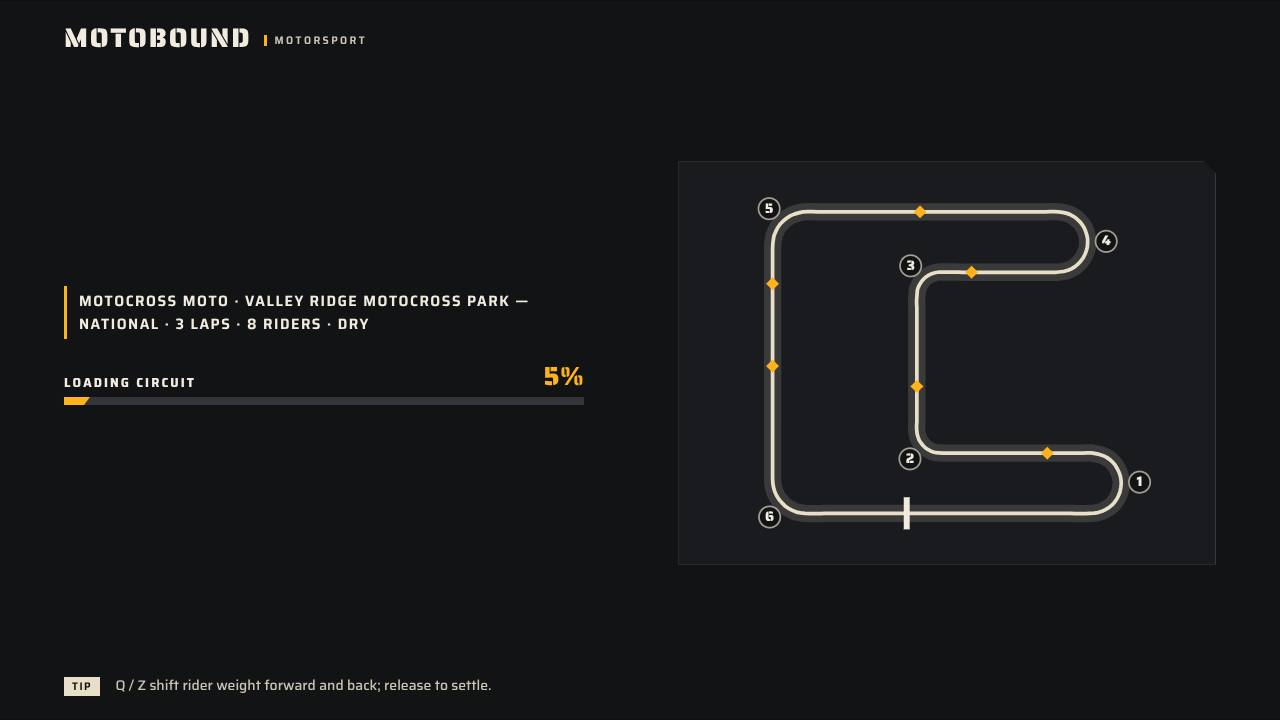
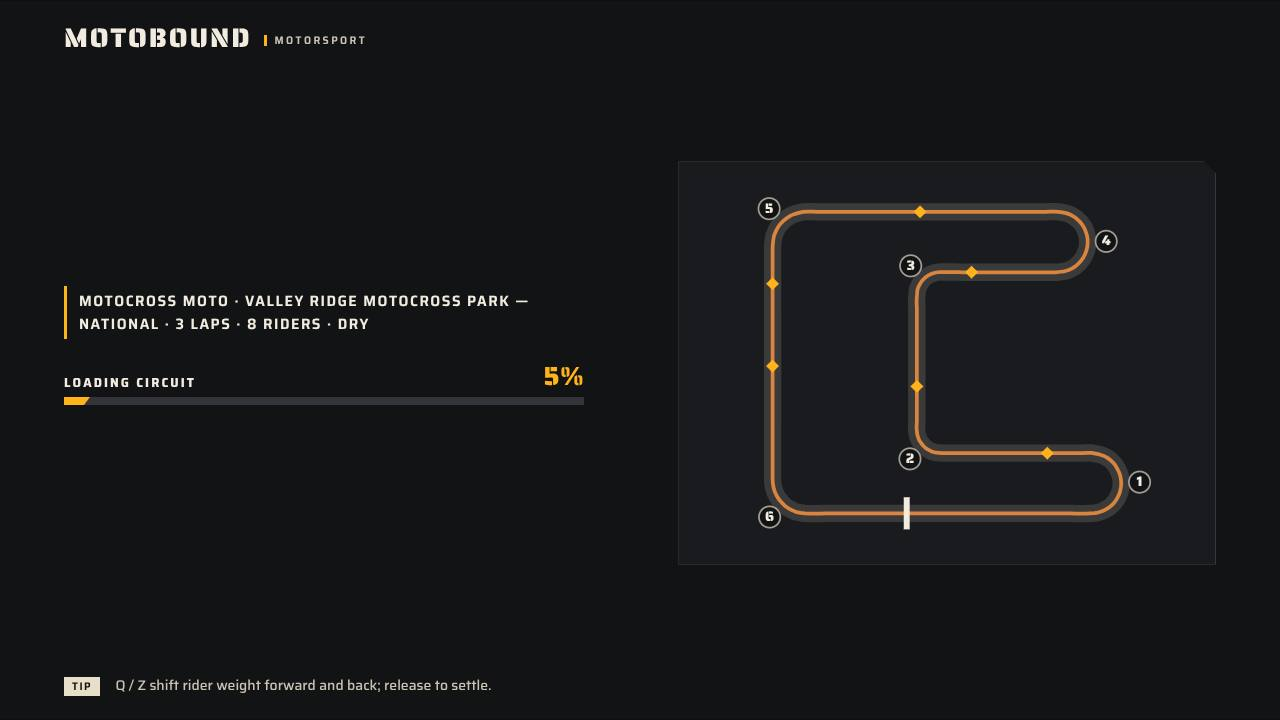
Wave 2 report, art direction notes, track-art tint fix, board scroll fix, final screens
Claude-Session: https://claude.ai/code/session_01MxucWy5KGnQJ1DDzh3nq1W

diff --git a/src/ui/front-end.css b/src/ui/front-end.css
@@ -501,12 +501,14 @@
 #menu[data-board='festival'] .lb-map {
   --tint: var(--mb-plate-fest);
 }
+/* --tint comes from the container (the venue sheet, the loading board, a Wildcard row), so the
+   line takes the discipline's plate colour; this sheet used to re-declare it on .ta itself,
+   which overrode every container. */
 .ta {
   display: block;
   width: 100%;
   height: 100%;
   overflow: visible;
-  --tint: var(--mb-plate-circuit);
 }
 .ta-road {
   fill: none;
@@ -517,7 +519,7 @@
 }
 .ta-line {
   fill: none;
-  stroke: var(--tint);
+  stroke: var(--tint, var(--mb-plate-circuit));
   stroke-width: 1.5;
   stroke-linejoin: round;
 }
@@ -566,7 +568,7 @@
 }
 .ta-rd {
   fill: none;
-  stroke: var(--tint);
+  stroke: var(--tint, var(--mb-plate-circuit));
   stroke-linejoin: round;
   stroke-linecap: round;
   opacity: 0.85;

diff --git a/docs/studio/reports/ux2.md b/docs/studio/reports/ux2.md
@@ -1,0 +1,217 @@
+# UX/UI Director report, wave 2: the front end a reviewer screenshots
+
+Branch `studio/ux-wave2` (from `main` @ 7f2d2ed). Design system: [ART_DIRECTION.md](../ART_DIRECTION.md)
+(updated: sections 8b, 9, 11, 11b, 13). Wave 1 report: [ux.md](ux.md). Screens:
+`docs/studio/reports/ux2-screens/` (JPEG, 1280x720, each at most 190 KB). Everything below comes from
+commands run in this worktree; anything not run is labelled. The host had 4 CPUs at load 9-14 shared with
+other agents and one browser ran at a time on SwiftShader, so every browser timing is slow and none is a
+performance claim.
+
+## 1. Result at a glance
+
+| # | Task | Status | Evidence |
+| --- | --- | --- | --- |
+| 1 | DIRT SERIES chips only on the DIRT plate | Done | e2e/60 test written first and seen failing on the old code, then passing; real-game before/after screens of the Circuit and Festival plates |
+| 2 | Wildcard Series as the front door | Done, with two caveats (section 6) | Board of 19 events, door on the paddock board, start from the event, medal and pay on the results screen, persisted by the career save; unit tests drive the real simulation into the real career controller; 3 events re-run headlessly after a weather change |
+| 3 | LIGHT dial | Done | Dial on the board, stored per profile, applied at session load; unit and DOM tests; effect seen in the real race (different sky and shadows), not measured |
+| 4 | HUD identity | Done for tokens, wordmark, numerals, shapes; layout untouched | unit test forbids geometry in the layer; e2e 28, 49, 52 results in section 3 |
+| 5 | CONTINUE | Done (the career hub as front door is not) | DOM test: one input relaunches a form entry or a Wildcard event; stored in the save store |
+| 6 | Loading screen and menu sounds | Done | loading board with the real venue line art and tips per discipline; six WebAudio sounds wired to `motobound:cue` (autoplay, volume and mute tested in a browser with a counting AudioContext; not listened to) |
+
+## 2. What was built
+
+### 2.1 The bug (DIRT SERIES chips on every plate)
+
+`motocross-presentation.ts` builds the strip, and `launch-board.ts` moved it under the plates for all
+disciplines. `sync()` now hides it unless the DIRT plate is active (`mx-entry[hidden]`). The two e2e
+specs that clicked OUTDOOR MX from the default menu (44 and 45) now pick the DIRT plate first: that is
+the contract change, not a weakened assertion (the chips are `display: none` under the other plates).
+Reproduction: `before-menu-circuit` and `before-menu-festival` show the chips under CIRCUIT and FESTIVAL.
+
+### 2.2 Wildcard Series
+
+* **Door** (`launch-board.ts`, `wildcard-board.css`): a ticket stub on the strip under every plate: the
+  count of events in stencil, a perforation, WILDCARD SERIES and "N OF 19 MEDALLED" from the career save.
+  It takes the row the dirt chips used to take on the other plates, so the 1280x720 entry still fits
+  without scrolling (`e2e/60` "board fits 1280x720" passes).
+* **Board** (`wildcard-board.ts`, opened by `career:wildcard`): master list and programme page, not a grid
+  of identical cards. Each row: number, the venue's real line art (`track-art.ts`), title, machine on
+  venue, weather and light glyphs and the player's best medal (a dashed ring when none). The page of the
+  chosen event: the venue map with corner numbers, the machine's plate, venue, lap length and turns,
+  field, sky, rules, the one-line pitch, the medal ladder (the player's rungs say EARNED), the best
+  result and the most it can pay (computed with the career's own `racePayout`, 24,000 for a six-car win).
+  The rows are a roving radio group: arrow keys, Home and End select; focus selects, so a controller
+  walking the list reads each event (`menu-gamepad.ts` got an up/down rule for it: the roving rows have
+  `tabindex="-1"`, which its spatial search skips).
+* **Start** is `career:wildcardGo:<id>`: `wildcardSession` over the player's setup, the machine loaned,
+  `CareerSession.light` carrying the event's own lighting.
+* **Results** (`resultsLead`, `wildcardResultHtml`): the medal earned or why none (not classified, the AI
+  drove, outside the ladder), what it asked for, NEW BEST or MATCHED YOUR BEST, and the pay; the career
+  payment table follows and a WILDCARD BOARD button returns. Pay, reputation and the record are
+  `settleRace` over `wildcardCareerEvent`, saved in `save.results['wildcard.<id>']`: no schema change.
+* **A gap I found and fixed:** a Wildcard time attack (event 18) is a time trial, and a time trial never
+  reaches the chequered flag (the session stays in phase 2 after its laps: probed with the production
+  simulation), so `main.finish` was never called and the event could never be settled. The controller now
+  ends it when the laps are done (`CareerController.attackFinished`, called from `main.observe`).
+* **New weather states:** fog on THE DESCENT IN THE CLOUD (the title says cloud), a thunderstorm on the
+  harbour hypercars, a dust storm on SUPERMOTO MEETS THE JOKER. `compoundFor` now follows the weather
+  catalogue (rain and storm ask for wets). Each changed event was re-run with `scripts/wildcard-races.ts`:
+  all three PASS, evidence hashes current (rain 195.5 s became fog 164.8 s at 159 km/h; clear 102.1 s became
+  storm 139.4 s at 86 km/h; clear 56.5 s became dust 61.6 s at 55 km/h; AI pace, one seed, loaded host).
+  Pitches were edited to match (`the pitch is read on the board`).
+
+### 2.3 LIGHT dial
+
+`rendering/light-choice.ts` (pure): `auto` (the venue's own light: floodlit at night venues, as before),
+`day`, `sunset`, `night`, `live`. Today the presets were not stored at all and a circuit change rebuilt the
+renderer and dropped them; LIVE was stored in `apex.sky.live.v1`. The choice is now stored per profile (LIVE
+under its old key, presets beside it), applied by `GameApp.applyLight` after the circuit is built and before
+the session reads it (and for the festival), and shared with the driving academy's CIRCUIT LIGHTING buttons.
+A Wildcard event that names a light (`lighting`) wins for its own session only. The dial sits beside
+WEATHER; to fit it the grid is now 12 columns with START shortened to Pole, Midfield, Back row and the
+festival hiding its four irrelevant dials (laps, grid, start, tyres).
+Weather does not suggest a light: no weather record carries one, so inventing a pairing would not be
+data-driven (left out on purpose). The menu showroom is studio-lit whatever the choice, so the dial's effect
+shows in the race, not in the menu (its tooltip says so).
+
+### 2.4 HUD identity
+
+`hud-identity.css` (injected last inside `#hud`: the race-day, compact, F1 and bike sheets are appended
+there as the HUD is built, so a head style loses to them; found by the first real-game screenshot, where
+only the token changes had landed). Tokens: `--apex-flame` and `--accent` to amber, panels to asphalt,
+`--hud-radius` 0, the player's tower row amber with ink text. The tower header is a paper strip with the
+MOTOBOUND wordmark in stencil (it replaces APEX in the tower and in the bike HUD); gear, speed, rpm,
+position and lap numerals are stencil and upright. Timing, compound and flag colours are untouched.
+`tests/hud-identity.test.ts` fails if the layer ever declares a geometry property, and checks it is
+last. The pause and results screens had already moved in wave 1; nothing in them says APEX.
+
+### 2.5 CONTINUE
+
+`continue-entry.ts` and the strip: the last entry launched from the board (the form's select values or a
+Wildcard event id) in the save store under `board:last:v1`, validated on read, shown as CONTINUE beside the
+door and relaunching in one input. The stored value is not a session or a result.
+
+### 2.6 Loading screen and menu sounds
+
+`loading-board.css`, `loading-tips.ts`, `Interface.loadingScene`: a pit board with the venue's real line art
+and a tip chosen from the discipline, weather, light and the player's own keys. Every tip is a rule of the
+game or a line of its in-game coaching (the motocross technique card, the GP riding cues, the weather
+briefs' numbers, `DRS.gap` and `DRS.fromLap`); a discipline with nothing true to add adds nothing.
+`audio/ui-sounds.ts` plays `motobound:cue`: six sounds (relay click, stencil-stamp thud, pit-exit chime, latch
+open, latch release, buzz), quiet (ceiling 0.35 of the player's volume), only after the first user
+interaction, never queued on a suspended context, mute and zero volume respected, key repeat thinned. Modals
+now emit `open` and `close`.
+
+### 2.7 Fixed on the way
+
+* **Track line art ignored its discipline tint** (wave 1 bug): `.ta` re-declared `--tint`, overriding the
+  venue sheet's per-plate tint, so every map was cream. Removed; GP maps are teal, dirt clay, the festival atlas
+  lime, and a Wildcard row takes the machine's colour.
+* **The Wildcard board moved the dialog** when an event was selected (`scrollIntoView` scrolls every ancestor),
+  leaving a stale strip above it in the first real-game capture. The board now scrolls only its own list.
+* **A controller could not walk the board** (the roving rows are `tabindex="-1"`, which the spatial search
+  skips): up and down now walk the rows (`e2e/60` has a fake-pad test).
+* **HUD layer lost to the older sheets** (see 2.4).
+* **A time attack could never be settled** (see 2.2).
+
+## 3. Verification (commands actually run)
+
+Playwright DOM specs ran through `scripts/studio/tools/pw-dom.config.ts` (no server, `CHROMIUM_PATH=/opt/pw-browsers/chromium`),
+the game specs through `pw-port.config.ts` on private port 4213 against `dist/` built in this worktree.
+
+| Command | Result |
+| --- | --- |
+| `npm run build` (tsc --noEmit then vite build), after the last TypeScript change; `npx vite build` again after the last CSS change; `npx tsc --noEmit` and `npx eslint src tests e2e scripts` (the `npm run lint` target) after the very last edit | all exit 0, lint prints nothing |
+| `npm run validate:content` | "Content valid" |
+| `node --experimental-transform-types scripts/wildcard-races.ts descent-in-the-cloud,hypercars-in-the-harbour,supermoto-meets-the-joker` | 3 of 3 PASS (numbers in 2.2); `docs/wildcard-races.json` merged |
+| `npx vitest run` on 33 files: career-hub, catalogue-menu-events, event-cards, f1-hud, front-end-board, front-end-light-sound, frontend-menus, frontend-retail, motocross-hud, motocross-presentation, menu-presentation, menu-startup-sky, setup-screen, startup, team-career, wildcard-board, wildcard-series, wildcard-career-flow, hud-identity, career, career-session, sky-ephemeris, daylight-environment, offroad-meeting, replay-photo, third-party-assets, motorcycle-presentation, presentation, race-day, circuit-catalogue, circuits, events, machine-options | 33 files, 384 tests passed; vitest also printed one "Unhandled Error: Timeout calling onTaskUpdate" (worker RPC starved at load 14); after the flow tests were changed to yield, `wildcard-career-flow`, `front-end-board`, `frontend-menus`, `hud-identity`, `wildcard-board`, `front-end-light-sound`, `wildcard-series`: 7 files, 102 tests, no error |
+| New and extended unit tests | `wildcard-series` 38 to 40 tests (weather states, wet tyres); `wildcard-board` 13; `wildcard-career-flow` 4 (a real simulated race and the time attack through the real career controller); `front-end-light-sound` 19; `hud-identity` 5 |
+| `e2e/60-launch-board.spec.ts` + `e2e/44-motocross-interface.spec.ts` (DOM) | 14 passed (60: the original 7, the DIRT SERIES test, the door and board, CONTINUE, LIGHT, the controller walk, the sounds; 44 with the DIRT plate picked first). The DIRT SERIES test was written first and failed on the old code (the chip resolved "visible" 62 times under the CIRCUIT plate) |
+| `e2e/28-race-hud-layout.spec.ts`, `e2e/49-hud-footprint.spec.ts`, `e2e/52-vehicle-hud.spec.ts` (real build, SwiftShader) | 9 passed in 3.5 min (28: its first test and the six "menu controls are reachable" viewports; 49: footprints at 1280 to 1920 wide, tower 347x263 at 1600x900; 52: vehicle pages and warnings) |
+| `e2e/30-menu-access.spec.ts -g "real interface keeps all actions reachable"` (real build) | passed (1.1 min): seven viewports, real Tab walk, with the door and the LIGHT dial in the order |
+| `node scripts/studio/tools/ux2shots.mjs` (seven real-game sessions; one died on my own script bug and was rerun) and `uxdom.mjs` | the screens below; 0 page errors in every completed real-game run |
+| **Not run** | `npm test` (full suite), `e2e/45` (real motocross gameplay, edited to pick the DIRT plate, not run), the other menu-touching specs, a physical controller |
+
+## 4. Screens (`docs/studio/reports/ux2-screens/`)
+
+Real game (Chromium on SwiftShader, 1280x720, `scripts/studio/tools/ux2shots.mjs`) unless marked DOM
+(the real `Interface` and CSS with a synthetic frame, no WebGL: `uxdom.mjs`).
+
+| Screen | Before | After | Critique |
+| --- | --- | --- | --- |
+| Circuit plate (bug 1) | `before-menu-circuit` | `after-menu-circuit` | The DIRT SERIES row is gone and the ticket takes its place: a paper stub with a perforation reads as a different object from the dials below it, which is the point. The row says "WILDCARD SERIES / 0 OF 19 MEDALLED" and nothing about what the series is; a first-time player learns that only by opening it. Nine dials still read as a form in the lower half. |
+| Festival plate (bug 1) | `before-menu-festival` | `after-menu-festival` | Before: motocross chips under a festival, the last dial row under the GO dock. After: no chips, the four dials the festival ignores are gone, SESSION takes the row, and the rules line is two lines; it fits 720p. The region atlas is now lime (the plate colour): coherent, a little loud. |
+| Dirt plate | `before-menu-dirt` | `after-menu-dirt` | The chips stay here and the ticket sits below them, so this plate scrolls a little earlier than before (its own scroll region, as it already did). The map line is now clay (the tint fix), with the amber jump marks. |
+| LIGHT dial | none | `after-light` | The dial shows SUNSET with its glyph. The showroom does not change (it is studio-lit): the dial's tooltip says so, but a player who changes it and sees nothing happen may think it is broken. A swatch of the sky on the dial would fix that. |
+| Wildcard door with medals and CONTINUE | none | `after-dom-menu-progress` (DOM) | "5 OF 19 MEDALLED" beside CONTINUE "APX-01 · VELLAMAR COAST": both fit one row of the board. The DOM fixture's data is synthetic (a played career made for the shot). |
+| Wildcard board | none | `after-board`, `after-board-selected` (real game, empty career) | A list of 19 with real line art and a programme page, not a card grid; a dirt bike on a circuit map draws a clay line on a circuit outline. Honest weak points: the right column leaves the bottom third empty at 720p, the machine and the venue share one small grey line in each row, and the dashed "no medal" rings repeat 19 times on a new career (a calm list, but nothing to see yet). `after-board-selected` shows KNOBBLIES ON THE BANKING: the clay line of the dirt bike on the oval. |
+| Wildcard result | none | `after-dom-wildcard-result` (DOM, the real career controller and `settleRace`, synthetic finishing frame) | The medal, what it asked for, NEW BEST and the pay lead the screen. At 720p the classification and the payment table are below the fold; the medal and the total are not. |
+| Loading | `before-race-loading` | `after-race-loading`, `after-wildcard-loading` | Flat asphalt, the real venue line art (with jump marks on a motocross course, floodlit-street corner numbers on the Wildcard night event), a stencil percent, and a tip that is true (the motocross weight keys with the player's own bindings; heavy rain for the wet Wildcard event). Weak: the left column floats in the middle with a lot of empty space above, and the session line wraps to two lines. |
+| Race HUD (dirt, same scene) | `before-race-hud` | `after-race-hud` | Same footprint. The tower header is a paper strip with MOTOBOUND in stencil (APEX is gone), the player's row is amber with ink text, the gear numeral is stencil. Still F1-derived: the instrument cluster silhouette and its rings, the S1/S2/S3 panel with its yellow underline and the compact cards; they use the new tokens but keep their old shapes, because their geometry is under test. |
+| Race HUD (Wildcard night race) | none | `after-wildcard-hud` | The whole chain in the real game: board, START EVENT, loading, a wet-tyre grid on the neon street circuit at night, the new tower header. The pause and briefing screens say GRAND PRIX, not the event's name (listed below). |
+| Briefing and pause | `before-race-briefing`, `before-race-pause` | `after-race-briefing`, `after-race-pause`, `after-wildcard-briefing`, `after-wildcard-pause` | Unchanged chrome (wave 1 had moved them); only the HUD behind them changed. |
+
+The earlier `after-*` captures of the sunset race (first run of the session) were dropped: that build had only
+the token part of the HUD layer.
+
+
+## 5. Files
+
+New: `src/ui/wildcard-board.ts` and `.css`, `continue-entry.ts`, `loading-tips.ts`, `loading-board.css`,
+`hud-identity.css`, `src/rendering/light-choice.ts`, `src/audio/ui-sounds.ts`; tests `wildcard-board`,
+`wildcard-career-flow`, `front-end-light-sound`, `hud-identity`; tools `scripts/studio/tools/ux2shots.mjs`,
+`pw-dom.config.ts`; `docs/studio/reports/ux2-screens/`.
+Changed: `src/ui/launch-board.ts` (strip, door, CONTINUE, LIGHT glyphs, HUD layer injection),
+`interface.ts` (LIGHT dial, board binding, `resultsLead`, `loadingScene`, cues on modals), `glyphs.ts`
+(sunset, night, live, venue, close; weather and light glyph tables), `front-end.css` (12-column grid),
+`menu-gamepad.ts`, `src/career/controller.ts` (wildcard open/start/finish, `attackFinished`, `changed` hook),
+`wildcard-series.ts` (three weather states, wet-tyre rule), `docs/wildcard-races.json` (re-run evidence),
+`src/main.ts` (LIGHT, CONTINUE, the door tally, loading scene, time attack end), `live-sky.ts` (key constant),
+`f1-hud.ts` and `bike-hud.ts` (wordmark), `ux-fixture.ts` and `uxdom.mjs` (new scenes),
+`e2e/44`, `45` (pick the DIRT plate), `e2e/60` and its fixture, `ART_DIRECTION.md`.
+`style.css` is untouched (a unit test reads two of its strings).
+
+## 6. Not done, unverified, known issues
+
+* **Career hub as the front door (ux.md next task 2) is not done**: the hub is still four identical cards.
+  Wildcard is reached from the paddock board and from the results screen, not from CAREER.
+* **Pause and briefing do not name a Wildcard event**: they say GRAND PRIX and the venue.
+* **The LIGHT dial shows nothing in the menu** (studio-lit showroom). The light in the race was seen in
+  screenshots (shadows and sky differ between the before and the sunset run) but not measured, and I did not
+  verify LIVE (the real sun) at all: it uses the existing LIVE code with a stored fix or the time zone.
+* **Weather does not suggest a light** (no weather data carries one): not invented.
+* **Wildcard results in the real game:** the medal banner is verified by the real career controller fed with
+  real simulated sessions (a race and the time attack) and by a DOM screenshot; I did not play a Wildcard race
+  to the flag in the browser (software GL takes tens of minutes for a race). The time-attack ending in the
+  browser (`main.observe` calling `finish`) is therefore unobserved there; its logic is tested.
+* **Menu sounds were not listened to.** What is verified: the recipes (length, level, count), the autoplay
+  gate, volume and mute, and that a real click builds oscillators on a counting context. Their taste is
+  unjudged. There is no separate "menu sounds" setting: only the master volume and the mute key.
+* **HUD:** the cluster, sector panel and compact/offroad cards keep their old shapes (see the screens table);
+  the festival, replay and photo HUDs were not touched or looked at; Team HQ, photo studio and grid
+  presentation still inherit the old skin.
+* **A vitest "Unhandled Error: Timeout calling onTaskUpdate"** appeared once in the 33-file run (host load
+  of 10-14: the worker was starved while a test stepped the simulation); all 384 tests passed. The flow tests
+  now yield between stretches. They take about 30 s together; that is the price of using the real simulation.
+* **Not run:** `npm test` (the full suite), the other menu-touching e2e specs (application, 15, 17, 45, 48,
+  59, motorcycle flows), a physical controller, any non-Chromium browser, any hardware GPU.
+* Screens: the circuit-plate "before" and "after" were captured on different boots; menu lighting and the
+  showroom car are the same, but the capture is not pixel-matched.
+
+## 7. Recommended next tasks (ranked)
+
+1. **Career hub as the front door:** replace the four-card grid with the plates plus a Wildcard strip, add
+   reputation and the next licence test under each, and open CAREER from CONTINUE when the last entry was a
+   career event.
+2. **Name the event on pause, briefing and results** when it is a Wildcard event, and put the machine's
+   plate on them (one `CareerSession` lookup).
+3. **A real Wildcard race to the flag in the browser** on a machine with a GPU (time attack and a race),
+   to see the banner and the pay in the live game, and the LIVE sky.
+4. **LIGHT preview:** a swatch of the chosen sky on the dial or a lit showroom, so the dial answers when it
+   is touched.
+5. **Rich pickers** for venue and machine (ux.md next task 5), now that the rows of the board show how well
+   line-art thumbnails read.
+6. **Finish the HUD:** reshape the instrument cluster and the sector panel inside their footprints, and move
+   the festival and replay HUDs onto the layer; run the whole HUD e2e set on a machine that is not loaded.
+7. **A "menu sounds" setting** (off, quiet, normal) and a listening pass by someone who is not me.
+8. **Run the menu-touching e2e set in CI** (not on this host).

diff --git a/docs/studio/ART_DIRECTION.md b/docs/studio/ART_DIRECTION.md
@@ -131,6 +131,9 @@ Track and region art (`src/ui/track-art.ts`) is generated, never hand-drawn: the
 Catmull-Rom of `CircuitDefinition.design` (the same curve `Track` samples), corner
 numbers at the real corner stations, DRS zones from `drsZones`, the start/finish tick at
 station 0; the festival map draws `SOLVANE.roads`, `coast` and event waypoints.
+The line takes `--tint` from its container (the venue sheet by plate, the loading board by kind, a Wildcard
+row and page by the *machine's* discipline), so a dirt bike on a circuit draws a clay line on a circuit
+outline. (`.ta` used to re-declare `--tint`, which overrode every container; wave 2 removed that.)
 
 ## 8. Interaction model (keyboard, pointer, controller)
 
